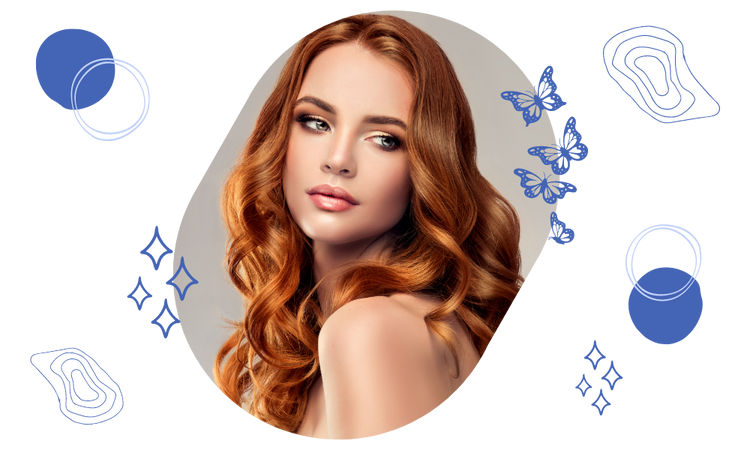
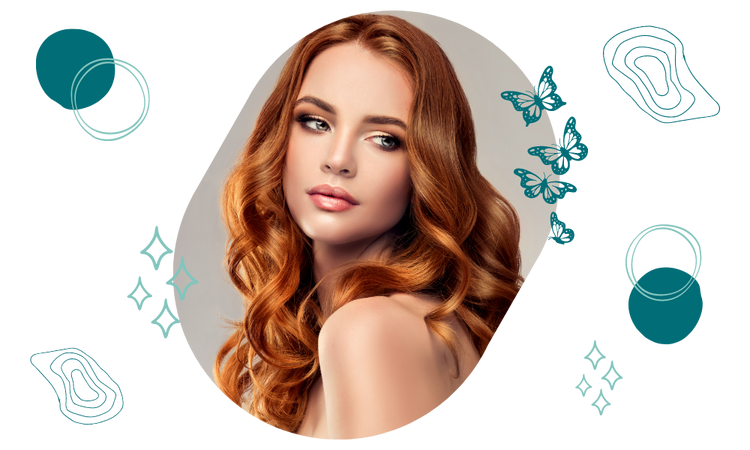
Add Home css

diff --git a/HairSalon/wwwroot/css/styles.css b/HairSalon/wwwroot/css/styles.css
@@ -3,7 +3,7 @@ div#footer {
   bottom:0px;
   left:0px;
   width:100%;
-  background:#333;
+  background:#eaeff5;
   padding:20px;
 }
 
@@ -13,20 +13,17 @@ div#footer a {
 }
 
 div#header {
+  top:0px;
+  left:0px;
+  position:fixed;
   width: 100%;
   display: flex;
   padding: 1rem;
   align-items: left;
   cursor: pointer;
-
-  
-  /* background:#343a40; */
-  padding: .5rem 2rem;
   color:#343a40;
-  background-color: rgba(228, 228, 228, 0.899);
+  background-color: #EDF6F9;
   border: 1px solid rgba(255, 255, 255, 0.18);
-  /* position: fixed; */
-  /* z-index: 2 */
 }
 
 #logo {
@@ -37,9 +34,8 @@ div#header {
 }
 
 #heading {
-  color: #4464b5d4;
+  color: #006D77;
   margin-bottom: 0px;
-  /* text-align: center; */
   font-family: 'Gruppo', cursive;
   font-weight: bold;
   font-size: 2em;
@@ -55,7 +51,7 @@ nav {
 }
 
 #nav a {
-  color:#4464b5d4;
+  color:#006D77;
   margin-top: 3rem;
   padding-right: 2.5rem;
   padding-left: 1rem;
@@ -66,7 +62,7 @@ div.content {
 }
 
 body {
-  background-color: rgba(255, 220, 184, 0.899);
+  background-color: #E29578;
   font-family: 'Open Sans', sans-serif;
 }
 
@@ -76,11 +72,12 @@ input {
 }
 
 div#search-box {
-  padding: 15px;
-  padding-top: 50px;
-  background-color: #c2d2f9d4;
+  padding: 2rem;
+  /* padding-top: 50px; */
+  background-color: #FFDDD2;
   text-align: center;
-  margin-top: 20px;
+  margin-top: 12rem;
+  display: center;
 }
 input.form-control{
   width: 10px;
@@ -89,11 +86,7 @@ input.form-control{
 div#home-lists {
   display: center;
   padding-bottom: 20px;
-  text-align: center;
-}
-
-#see-all-stylists {
-  margin-right: 20px;
+  /* text-align: center; */
 }
 
 ul li a {
